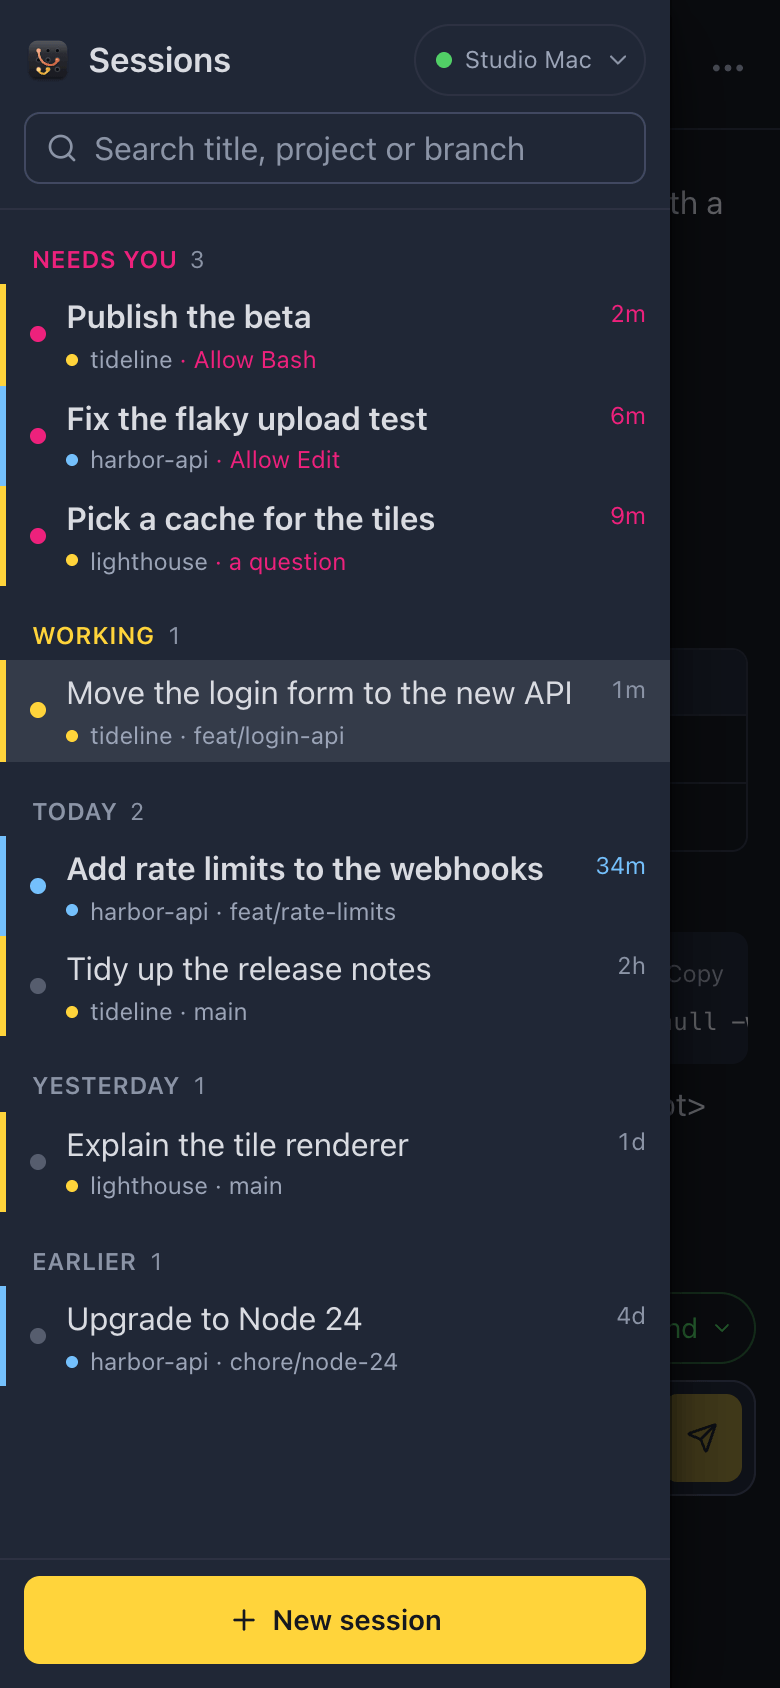
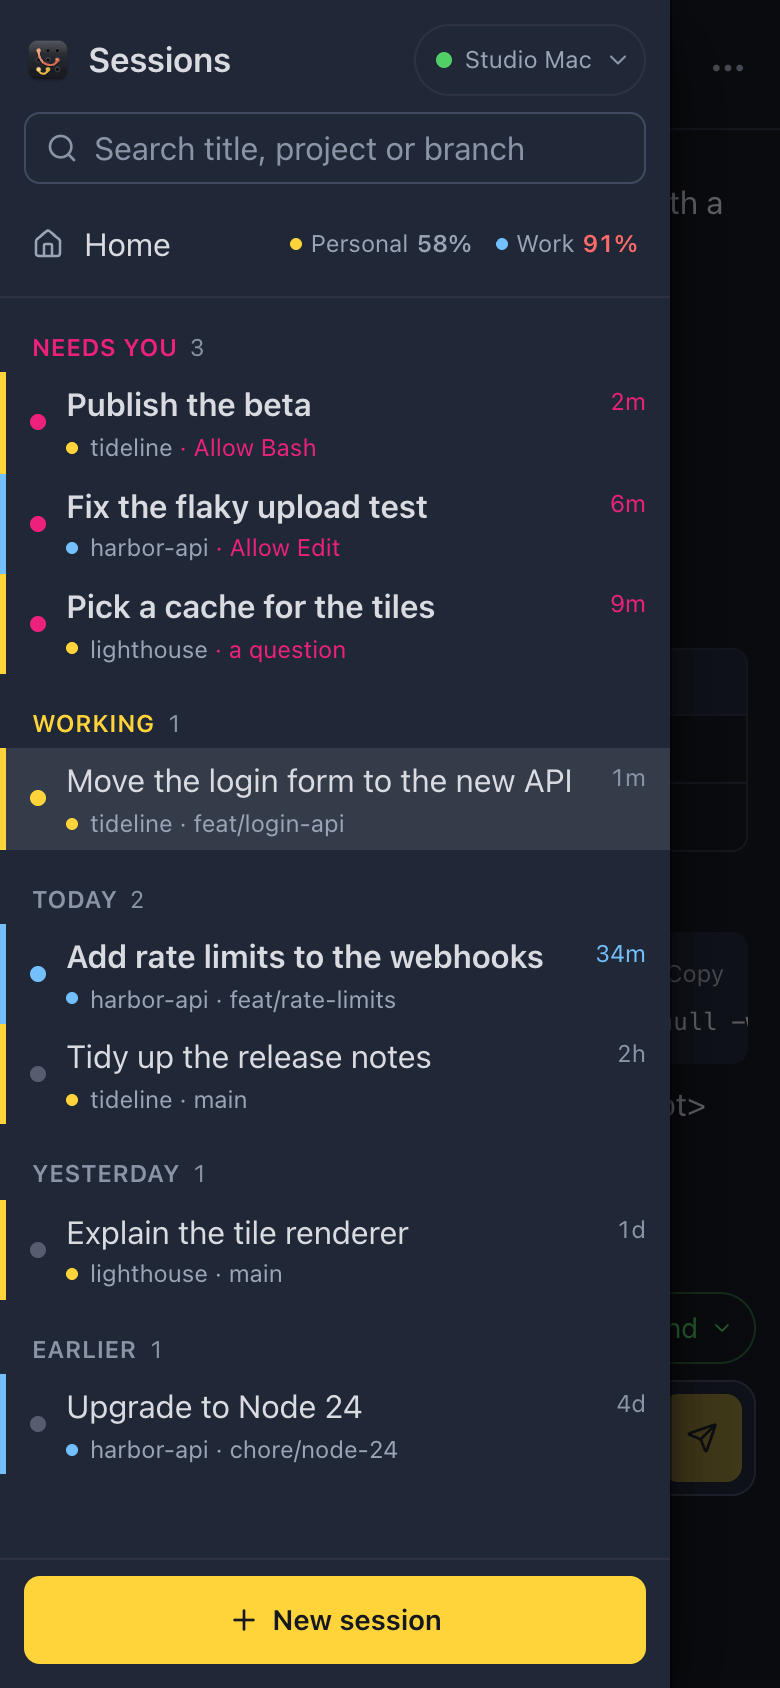
fix(remote): drawer's Home row goes back to the first screen on a phone
A phone had no way back from a session to the first screen. The drawer's
Home row now shows on every screen size, with each profile's usage. On a
phone it goes to the list, the phone's only home; on a wide screen it
still opens Home next to the sidebar. homeRoute() in lib/drawer.ts picks
the route, with tests for both.

Docs and the drawer screenshots show the Home row again.

diff --git a/apps/remote/src/components/SessionList.tsx b/apps/remote/src/components/SessionList.tsx
@@ -57,7 +57,8 @@ export function useNow(): number {
  * - `sidebar`: the wide layout's sidebar. The search opens the palette, chips for what needs you and what works,
  *   prompts are rows in Needs you (their cards are on the home view), rows are the desktop's size, and the `⋯` menu
  *   sits at the bottom next to New session.
- * - `drawer`: the sessions drawer. A search, the Home row on a wide screen, prompts as rows, the open session picked.
+ * - `drawer`: the sessions drawer. A search, the Home row (on every screen size: Home on a wide screen, the first
+ *   screen on a phone), prompts as rows, the open session picked.
  */
 export type ListMode = 'phone' | 'sidebar' | 'drawer';
 
@@ -109,8 +110,11 @@ export function SessionList({
   newOpen: boolean;
   onOpen: (sessionId: string) => void;
   onNew: () => void;
-  /** Goes to Home: the sidebar's button, or the drawer's Home row on a wide screen. Without it, no Home row. */
-  onHome?: () => void;
+  /**
+   * The sidebar's Home button, or the drawer's Home row, which shows on every screen size: Home on a wide screen, the
+   * first screen on a phone.
+   */
+  onHome: () => void;
   /** Home is on screen: its button or row shows as current. */
   homeOpen?: boolean;
   /** Asks for the list again (pull to refresh); done when the answer is in. */
@@ -343,7 +347,7 @@ export function SessionList({
         <header className={`sticky top-0 z-10 flex items-center gap-2 bg-inherit pb-2 ${drawer ? 'px-3 pt-[max(0.75rem,env(safe-area-inset-top))]' : 'safe-top px-4'}`}>
           <Logo className="size-6" />
           <h1 className="min-w-0 flex-1 truncate text-title font-semibold">Sessions</h1>
-          {sidebar && onHome && (
+          {sidebar && (
             <Button variant="quiet" size="md" aria-label="Home" title="Home" aria-current={homeOpen ? 'page' : undefined} onClick={onHome} className={`px-2! ${homeOpen ? 'bg-selected text-text' : ''}`} data-remote-home-button>
               <House className="size-4" aria-hidden />
             </Button>
@@ -367,7 +371,7 @@ export function SessionList({
       {drawer && (
         <>
           <div className="flex px-3 pb-2">{searchField}</div>
-          {!query && onHome && (
+          {!query && (
             <button
               type="button"
               onClick={onHome}

diff --git a/apps/remote/src/components/Connected.tsx b/apps/remote/src/components/Connected.tsx
@@ -3,7 +3,7 @@ import { PanelLeftClose, PanelLeftOpen } from 'lucide-react';
 import type { RemoteContract, RemoteSessions, RpcClient } from '@switchboard/protocol/remote-client';
 import { Connection, type ConnectionState } from '../lib/connection.ts';
 import { setFaviconDot } from '../lib/favicon.ts';
-import { needsYouElsewhere } from '../lib/drawer.ts';
+import { homeRoute, needsYouElsewhere } from '../lib/drawer.ts';
 import { nextNeedsYou } from '../lib/groups.ts';
 import { inView, isTypingTarget, keyAction, nextIndex } from '../lib/keys.ts';
 import type { Paired } from '../lib/link.ts';
@@ -267,7 +267,8 @@ export function Connected({ paired, openSession, onForget, onPaired }: { paired:
     setRoute(next);
   };
   const pick = (sessionId: string) => fromDrawer(() => swap({ kind: 'session', sessionId }));
-  const pickHome = () => fromDrawer(() => swap({ kind: 'home' }));
+  /** The drawer's Home row: Home on a wide screen, the first screen on a phone (its only home). */
+  const pickHome = () => fromDrawer(() => swap(homeRoute(wide)));
   const pickNew = () => fromDrawer(() => (wide ? swap({ kind: 'new' }) : go({ kind: 'new' })));
   /** ⌘B, or the toggle in the session's header: the sidebar folds into the drawer, or comes back. */
   const toggleFold = () => {
@@ -461,8 +462,8 @@ export function Connected({ paired, openSession, onForget, onPaired }: { paired:
         newOpen={route.kind === 'new'}
         onOpen={pick}
         onNew={pickNew}
-        onHome={wide ? pickHome : undefined}
-        homeOpen={wide && atRoot}
+        onHome={pickHome}
+        homeOpen={atRoot}
         onRefresh={reload}
         onArchived={(sessionId) => sessionId === currentId && leave()}
         homeRow={<ProfileStrip usage={usage} />}

diff --git a/apps/remote/src/lib/drawer.test.ts b/apps/remote/src/lib/drawer.test.ts
@@ -1,5 +1,5 @@
 import { describe, expect, it } from 'vitest';
-import { dragPosition, drawerLabel, drawerWidth, needsYouElsewhere, settle, startsEdgeSwipe } from './drawer.ts';
+import { dragPosition, drawerLabel, drawerWidth, homeRoute, needsYouElsewhere, settle, startsEdgeSwipe } from './drawer.ts';
 import { addSample, axisOf, velocity } from './gesture.ts';
 
 describe('the edge swipe', () => {
@@ -93,5 +93,15 @@ describe('the drawer button', () => {
   it('takes 86% of a phone’s width, and at most 400px', () => {
     expect(drawerWidth(390)).toBe(335);
     expect(drawerWidth(820)).toBe(400);
+  });
+});
+
+describe('the Home row', () => {
+  it('goes to the first screen on a phone, which has no Home route', () => {
+    expect(homeRoute(false)).toEqual({ kind: 'list' });
+  });
+
+  it('goes to Home next to the sidebar on a wide screen', () => {
+    expect(homeRoute(true)).toEqual({ kind: 'home' });
   });
 });

diff --git a/apps/remote/src/lib/drawer.ts b/apps/remote/src/lib/drawer.ts
@@ -48,6 +48,12 @@ export function drawerLabel(needsYou: number): string {
   return `Sessions, ${needsYou} ${needsYou === 1 ? 'needs' : 'need'} you`;
 }
 
+/**
+ * Where the drawer's Home row goes. A wide screen has Home, the view next to the sidebar. A phone has one home, the
+ * first screen: the list.
+ */
+export const homeRoute = (wide: boolean): { kind: 'home' } | { kind: 'list' } => (wide ? { kind: 'home' } : { kind: 'list' });
+
 /** What waits on you in the other sessions: the open one's prompt is on screen already. */
 export function needsYouElsewhere(sessions: readonly { id: string; status: string }[], openId: string | null): number {
   return sessions.filter((s) => s.status === 'needs-you' && s.id !== openId).length;
